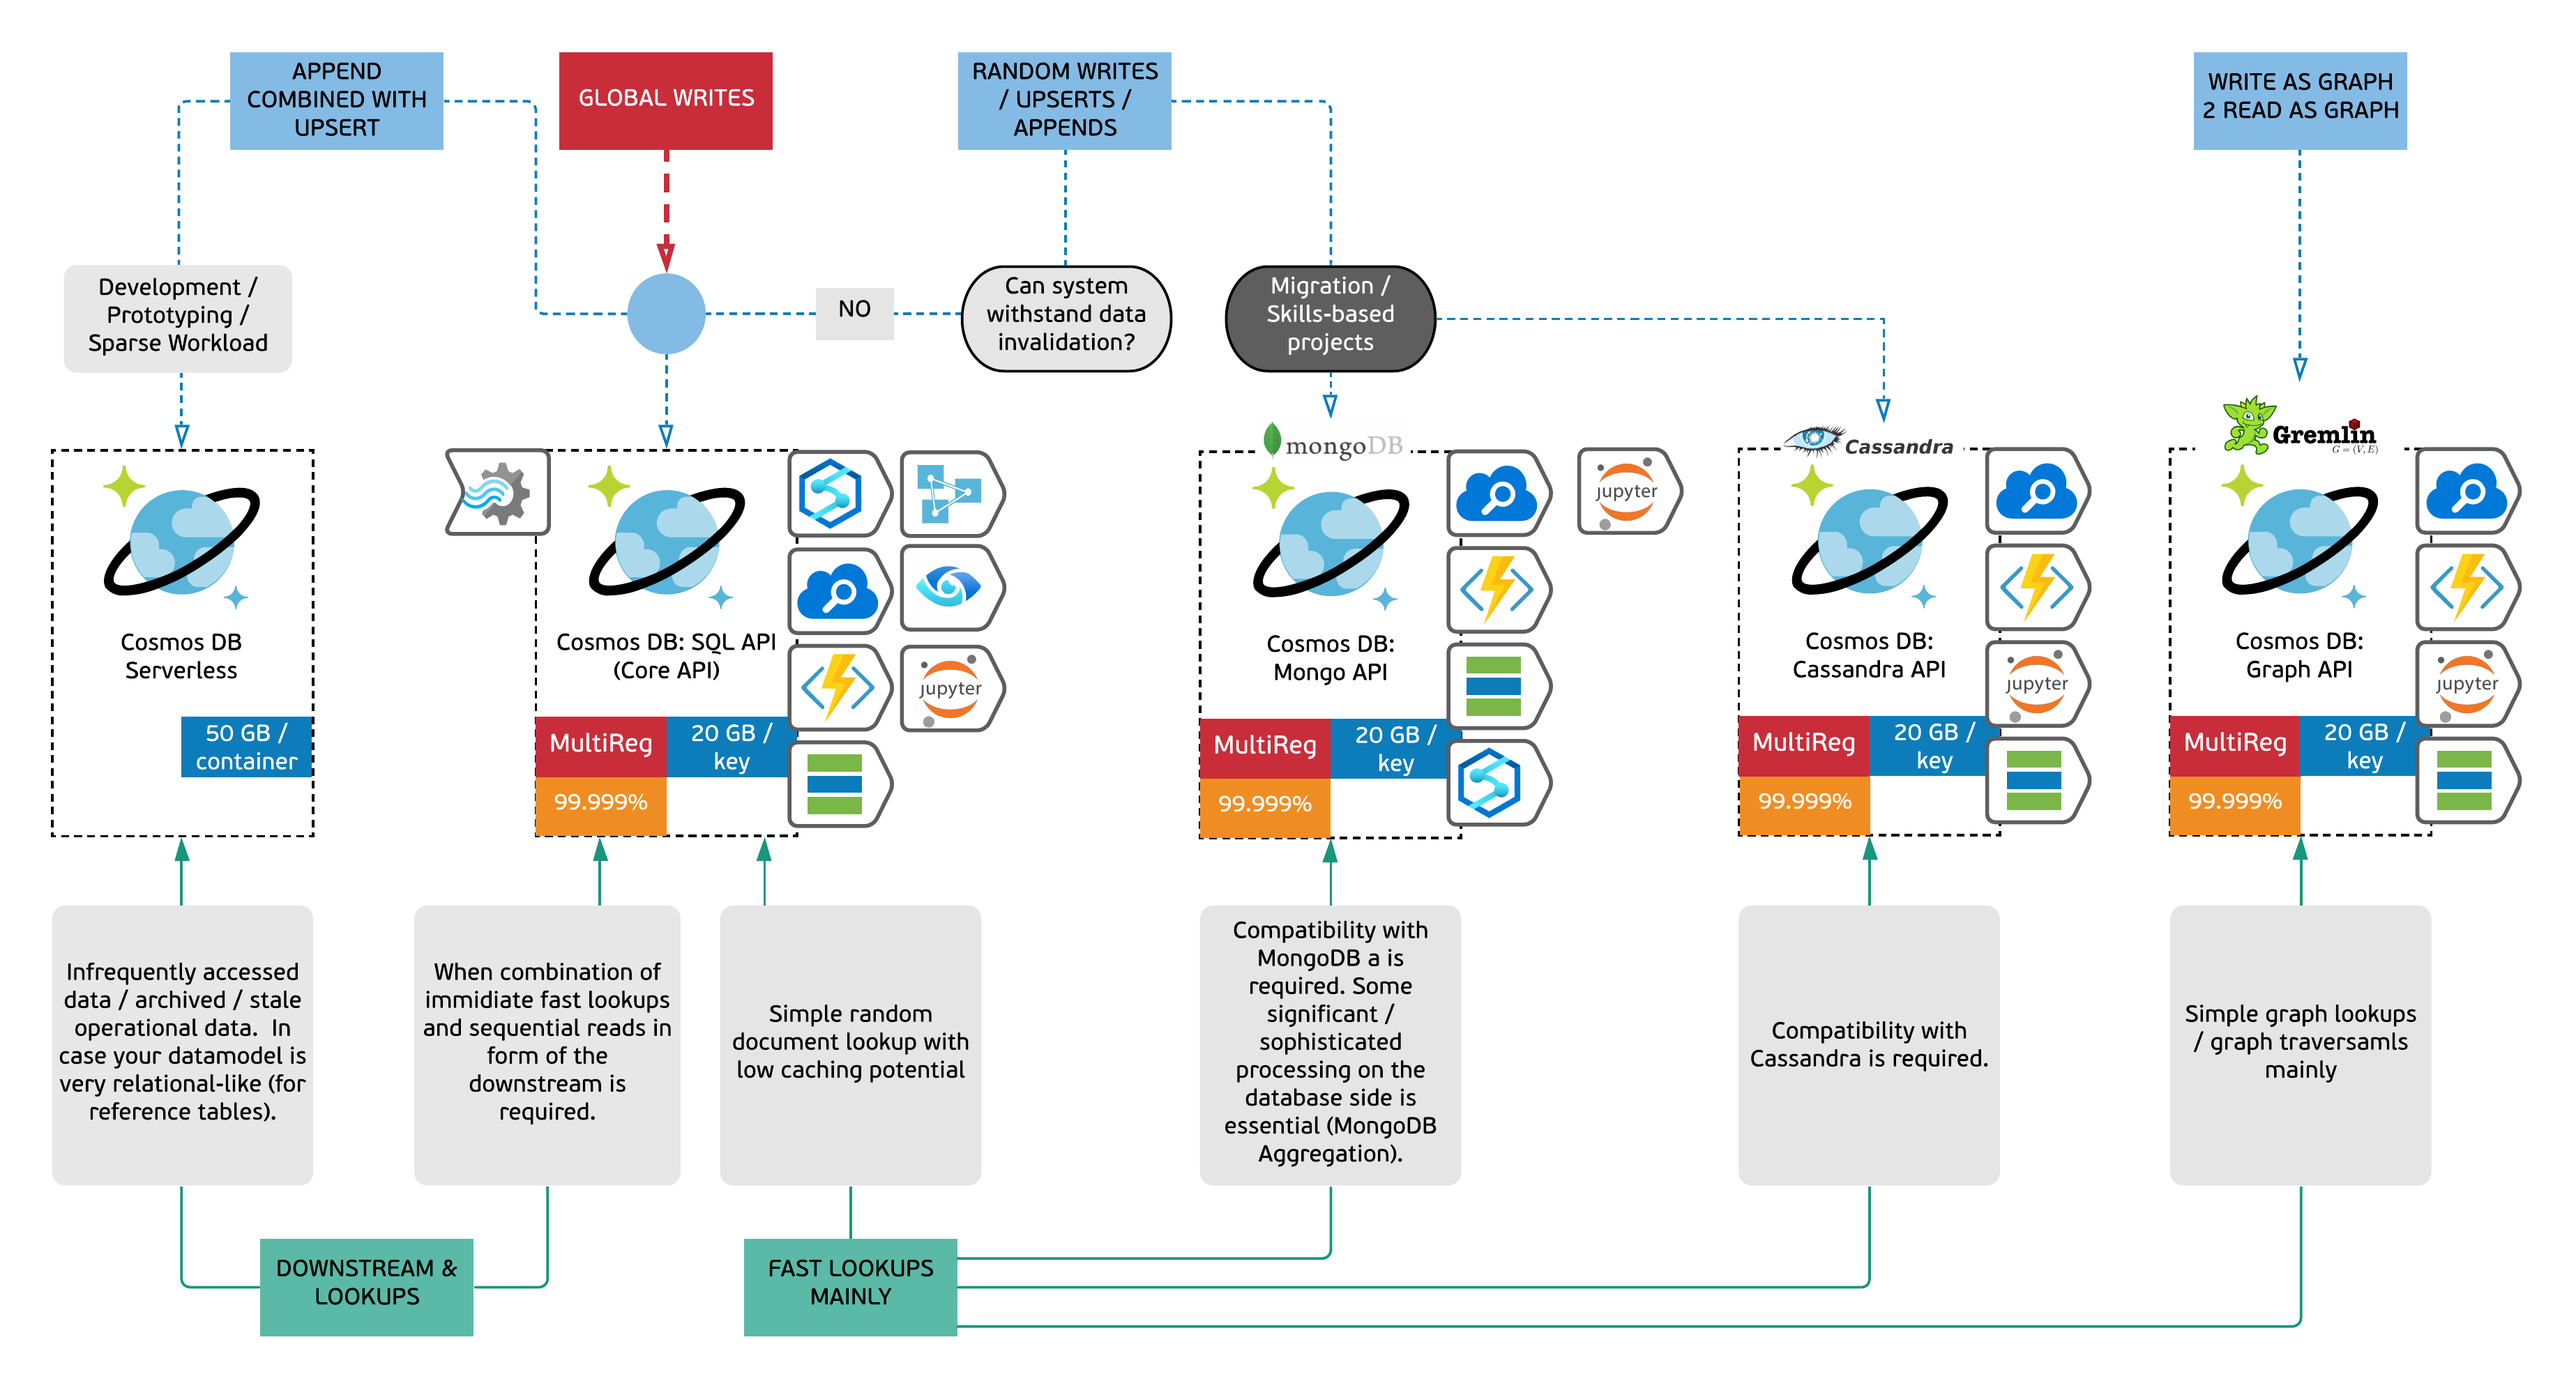
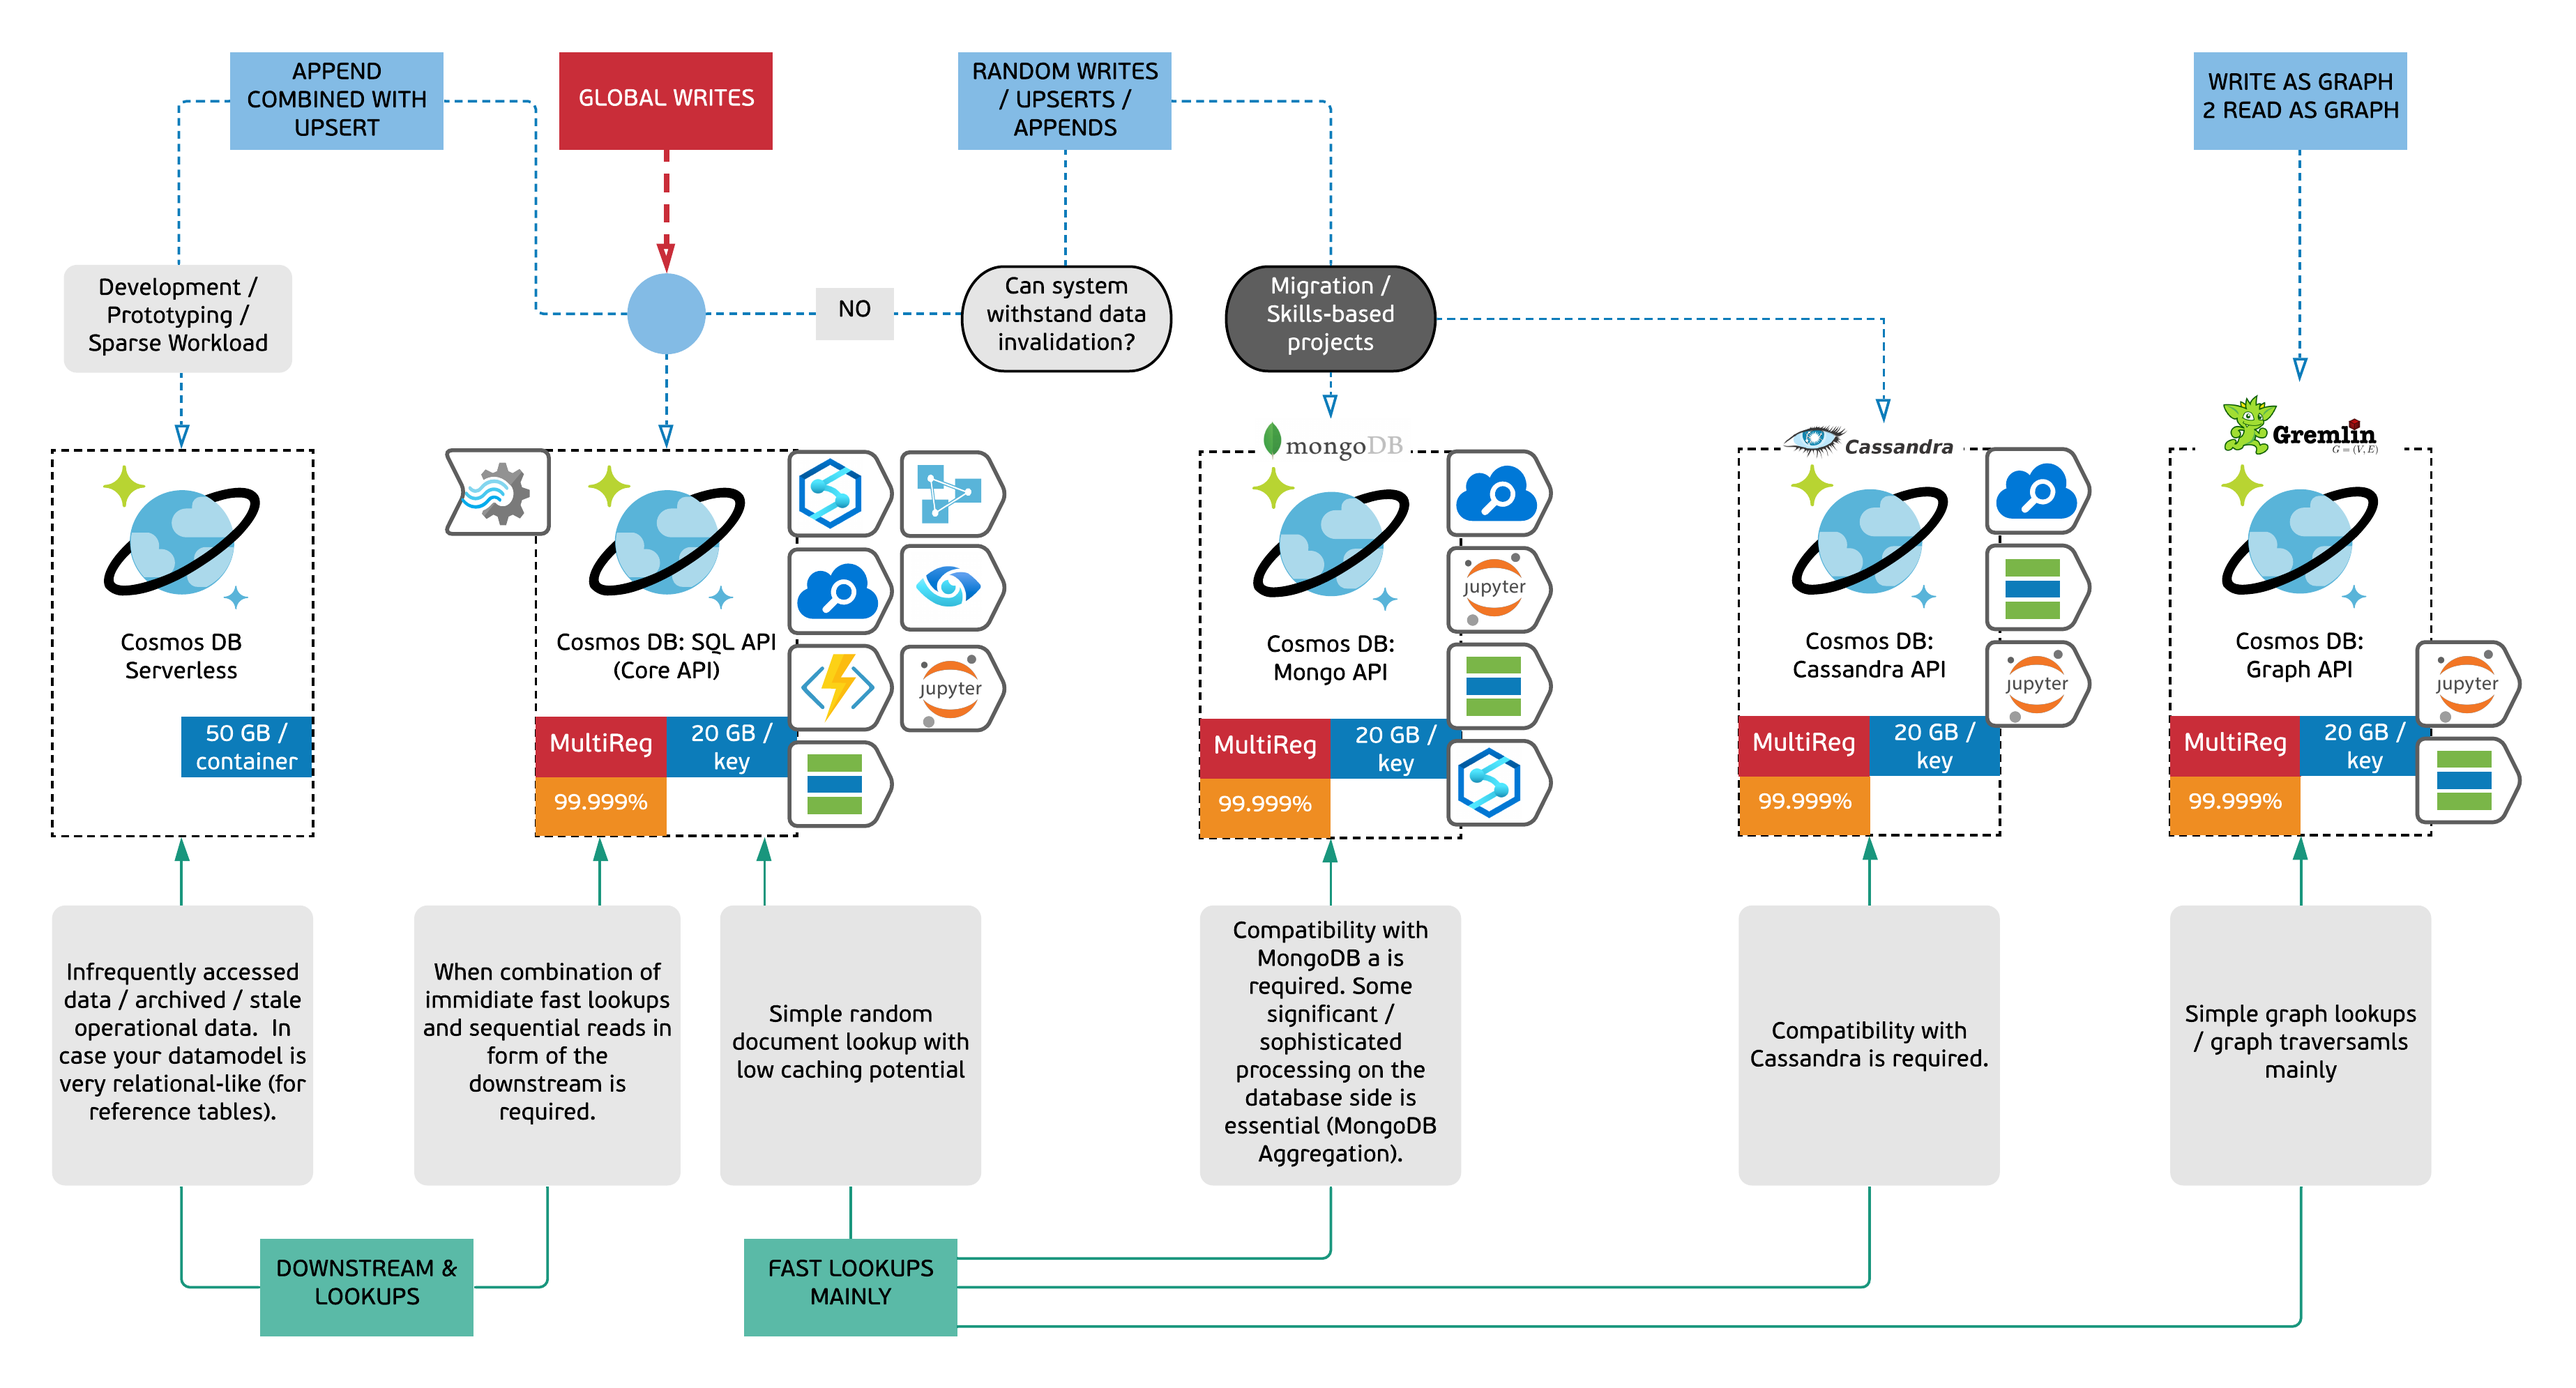
Proper links for Cosmos DB image map

diff --git a/html/cosmos.html b/html/cosmos.html
@@ -43,63 +43,61 @@
     <img src="/images/DTCosmosDB.png" alt="Albero Decision Tree Cosmos DB" usemap="#map" />
     <map name="map">
         <!--Azure Cosmos DB Gremlin API-->
-        <area shape="rect" coords="3111, 660, 3465, 1030" id="cosmosdbgremlinapi" alt="Azure Cosmos DB Gremlin API" href="" />
+        <area shape="rect" coords="3111, 660, 3465, 1030" id="cosmosdbgremlinapi" alt="Azure Cosmos DB Gremlin API" href="https://docs.microsoft.com/en-us/azure/cosmos-db/graph-introduction" />
         <!--Azure Cosmos DB Gremlin API Parameters-->
-        <area shape="rect" coords="3297, 1026, 3461, 1116" alt="Azure Cosmos DB Gremlin API Storage" href="" />
-        <area shape="rect" coords="3110, 1115, 3295, 1201" alt="Azure Cosmos DB Gremlin API SLA" href="" />
-        <area shape="rect" coords="3110, 1027, 3296, 1115" alt="Azure Cosmos DB Gremlin API High Availability" href="" />
+        <area shape="rect" coords="3297, 1026, 3461, 1116" alt="Azure Cosmos DB Gremlin API Storage" href="https://docs.microsoft.com/en-us/azure/cosmos-db/concepts-limits" />
+        <area shape="rect" coords="3110, 1115, 3295, 1201" alt="Azure Cosmos DB Gremlin API SLA" href="https://azure.microsoft.com/en-us/support/legal/sla/cosmos-db/v1_3/" />
+        <area shape="rect" coords="3110, 1027, 3296, 1115" alt="Azure Cosmos DB Gremlin API High Availability" href="https://docs.microsoft.com/en-us/azure/cosmos-db/high-availability" />
         <!--Azure Cosmos DB Gremlin API Integration-->
-        <area shape="rect" coords="3460, 1056, 3623, 1187" alt="Azure Cosmos DB Gremlin API Change Feed " href="" />
-        <area shape="rect" coords="3462, 916, 3622, 1049" alt="Azure Cosmos DB Gremlin API Jupiter" href="" />
-        <area shape="rect" coords="3462, 777, 3622, 909" alt="Azure Cosmos DB Gremlin API Functions" href="" />
-        <area shape="rect" coords="3463, 639, 3622, 770" alt="Azure Cosmos DB Gremlin API Search" href="" />
+        <area shape="rect" coords="3460, 1056, 3623, 1187" alt="Azure Cosmos DB Gremlin API Change Feed " href="https://docs.microsoft.com/en-us/azure/cosmos-db/change-feed" />
+        <area shape="rect" coords="3462, 916, 3622, 1049" alt="Azure Cosmos DB Gremlin API Jupiter" href="https://docs.microsoft.com/en-us/azure/cosmos-db/cosmosdb-jupyter-notebooks" />
         <!--Azure Cosmos DB Gremlin API Version-->
-        <area shape="rect" coords="3178, 567, 3409, 655" alt="Azure Cosmos DB Gremlin API Version" href="" />
+        <area shape="rect" coords="3178, 567, 3409, 655" alt="Azure Cosmos DB Gremlin API Version" href="https://docs.microsoft.com/en-us/azure/cosmos-db/gremlin-support" />
+        <!--Gremlin - no Search-->
+        <!--All - no Functions-->
 
         <!--Azure Cosmos DB Cassandra API-->
-        <area shape="rect" coords="2493, 660, 2844, 1028" id="cosmosdbcassandraapi" alt="Azure Cosmos DB Cassandra API" href="" />
+        <area shape="rect" coords="2493, 660, 2844, 1028" id="cosmosdbcassandraapi" alt="Azure Cosmos DB Cassandra API" href="https://docs.microsoft.com/en-us/azure/cosmos-db/cassandra-introduction" />
         <!--Azure Cosmos DB Cassandra API Parameters-->
-        <area shape="rect" coords="2684, 1028, 2847, 1116" alt="Azure Cosmos DB Cassandra API Storage" href="" />
-        <area shape="rect" coords="2493, 1116, 2681, 1199" alt="Azure Cosmos DB Cassandra API SLA" href="" />
-        <area shape="rect" coords="2496, 1028, 2682, 1116" alt="Azure Cosmos DB Cassandra API High-Availability" href="" />
+        <area shape="rect" coords="2684, 1028, 2847, 1116" alt="Azure Cosmos DB Cassandra API Storage" href="https://docs.microsoft.com/en-us/azure/cosmos-db/concepts-limits" />
+        <area shape="rect" coords="2493, 1116, 2681, 1199" alt="Azure Cosmos DB Cassandra API SLA" href="https://azure.microsoft.com/en-us/support/legal/sla/cosmos-db/v1_3/" />
+        <area shape="rect" coords="2496, 1028, 2682, 1116" alt="Azure Cosmos DB Cassandra API High-Availability" href="https://docs.microsoft.com/en-us/azure/cosmos-db/high-availability" />
         <!--Azure Cosmos DB Cassandra API Integration-->
-        <area shape="rect" coords="2845, 1057, 3004, 1187" alt="Azure Cosmos DB Cassandra API Change Feed" href="" />
-        <area shape="rect" coords="2843, 916, 3001, 1047" alt="Azure Cosmos DB Cassandra API Jupiter" href="" />
-        <area shape="rect" coords="2844, 779, 3002, 908" alt="Azure Cosmos DB Cassandra API Functions" href="" />
-        <area shape="rect" coords="2848, 639, 3001, 770" alt="Azure Cosmos DB Cassandra API Search" href="" />
+        <area shape="rect" coords="2844, 779, 3002, 908" alt="Azure Cosmos DB Cassandra API Change Feed" href="https://docs.microsoft.com/en-us/azure/cosmos-db/change-feed" />
+        <area shape="rect" coords="2843, 916, 3001, 1047" alt="Azure Cosmos DB Cassandra API Jupiter" href="https://docs.microsoft.com/en-us/azure/cosmos-db/cosmosdb-jupyter-notebooks" />
+        <area shape="rect" coords="2848, 639, 3001, 770" alt="Azure Cosmos DB Cassandra API Search" href="https://docs.microsoft.com/en-us/azure/search/search-howto-index-cosmosdb" />
         <!--Azure Cosmos DB Cassandra API Version-->
-        <area shape="rect" coords="2553, 604, 2817, 660" alt="Azure Cosmos DB Cassandra API Version" href="" />
+        <area shape="rect" coords="2553, 604, 2817, 660" alt="Azure Cosmos DB Cassandra API Version" href="https://docs.microsoft.com/en-us/azure/cosmos-db/cassandra-support" />
 
         <!--Azure Cosmos DB Mongo API-->
-        <area shape="rect" coords="1723, 660, 2074, 1028" id="cosmosdbmongoapi" alt="Azure Cosmos DB Mongo API" href="" />
+        <area shape="rect" coords="1723, 660, 2074, 1028" id="cosmosdbmongoapi" alt="Azure Cosmos DB Mongo API" href="https://docs.microsoft.com/en-us/azure/cosmos-db/mongodb-introduction" />
         <!--Azure Cosmos DB Mongo API Parameters-->
-        <area shape="rect" coords="1910, 1031, 2079, 1119" alt="Azure Cosmos DB Mongo API Storage" href="" />
-        <area shape="rect" coords="1720, 1122, 1910, 1203" alt="Azure Cosmos DB Mongo API SLA" href="" />
-        <area shape="rect" coords="1721, 1030, 1910, 1119" alt="Azure Cosmos DB Mongo API High Availability" href="" />
+        <area shape="rect" coords="1910, 1031, 2079, 1119" alt="Azure Cosmos DB Mongo API Storage" href="https://docs.microsoft.com/en-us/azure/cosmos-db/concepts-limits" />
+        <area shape="rect" coords="1720, 1122, 1910, 1203" alt="Azure Cosmos DB Mongo API SLA" href="https://azure.microsoft.com/en-us/support/legal/sla/cosmos-db/v1_3/" />
+        <area shape="rect" coords="1721, 1030, 1910, 1119" alt="Azure Cosmos DB Mongo API High Availability" href="https://docs.microsoft.com/en-us/azure/cosmos-db/high-availability" />
         <!--Azure Cosmos DB Mongo API Integration-->
-        <area shape="rect" coords="2255, 639, 2420, 774" alt="Azure Cosmos DB Mongo API Out Jupiter" href="" />
-        <area shape="rect" coords="2072, 1059, 2233, 1189" alt="Azure Cosmos DB Mongo API Out Synapse" href="" />
-        <area shape="rect" coords="2074, 924, 2231, 1050" alt="Azure Cosmos DB Mongo API Out Change Feed" href="" />
-        <area shape="rect" coords="2074, 779, 2229, 914" alt="Azure Cosmos DB Mongo API Out Functions" href="" />
-        <area shape="rect" coords="2076, 643, 2229, 773" alt="Azure Cosmos DB Mongo API Out Search" href="" />
+        <area shape="rect" coords="2074, 779, 2229, 914" alt="Azure Cosmos DB Mongo API Out Jupiter" href="https://docs.microsoft.com/en-us/azure/cosmos-db/cosmosdb-jupyter-notebooks" />
+        <area shape="rect" coords="2072, 1059, 2233, 1189" alt="Azure Cosmos DB Mongo API Out Synapse" href="https://docs.microsoft.com/en-us/azure/cosmos-db/synapse-link" />
+        <area shape="rect" coords="2074, 924, 2231, 1050" alt="Azure Cosmos DB Mongo API Out Change Feed" href="https://docs.microsoft.com/en-us/azure/cosmos-db/change-feed" />
+        <area shape="rect" coords="2076, 643, 2229, 773" alt="Azure Cosmos DB Mongo API Out Search" href="https://docs.microsoft.com/en-us/azure/search/search-howto-index-cosmosdb" />
         <!--Azure Cosmos DB Mongo API Version Support-->
-        <area shape="rect" coords="1804, 595, 2021, 667" alt="Azure Cosmos DB Mongo API Version Support" href="" />
+        <area shape="rect" coords="1804, 595, 2021, 667" alt="Azure Cosmos DB Mongo API Version Support" href="https://docs.microsoft.com/en-us/azure/cosmos-db/mongodb-feature-support-36" />
 
         <!--Azure Cosmos DB SQL API-->
-        <area shape="rect" coords="788, 650, 1125, 1026" id="cosmosdbsqlapi" alt="Azure Cosmos DB SQL API" href="" />
+        <area shape="rect" coords="788, 650, 1125, 1026" id="cosmosdbsqlapi" alt="Azure Cosmos DB SQL API" href="https://docs.microsoft.com/en-us/azure/cosmos-db/" />
         <!--Azure Cosmos DB SQL API Parameters-->
-        <area shape="rect" coords="956, 1026, 1130, 1115" alt="Azure Cosmos DB SQL API Storage" href="" />
-        <area shape="rect" coords="764, 1114, 956, 1201" alt="Azure Cosmos DB SQL API SLA" href="" />
-        <area shape="rect" coords="766, 1026, 956, 1114" alt="Azure Cosmos DB SQL API High Availability" href="" />
+        <area shape="rect" coords="956, 1026, 1130, 1115" alt="Azure Cosmos DB SQL API Storage" href="https://docs.microsoft.com/en-us/azure/cosmos-db/concepts-limits" />
+        <area shape="rect" coords="764, 1114, 956, 1201" alt="Azure Cosmos DB SQL API SLA" href="https://azure.microsoft.com/en-us/support/legal/sla/cosmos-db/v1_3/" />
+        <area shape="rect" coords="766, 1026, 956, 1114" alt="Azure Cosmos DB SQL API High Availability" href="https://docs.microsoft.com/en-us/azure/cosmos-db/high-availability" />
         <!--Azure Cosmos DB SQL API Integration-->
-        <area shape="rect" coords="1286, 921, 1446, 1057" alt="Cosmos DB SQL API Integration Out Jupiter" href="" />
-        <area shape="rect" coords="1286, 782, 1441, 922" alt="Cosmos DB SQL API Integration Out Purview" href="" />
-        <area shape="rect" coords="1289, 641, 1447, 779" alt="Cosmos DB SQL API Integration Out Analysis Services" href="" />
-        <area shape="rect" coords="1127, 1062, 1291, 1194" alt="Cosmos DB SQL API Integration Out Change Feed" href="" />
-        <area shape="rect" coords="1127, 920, 1289, 1051" alt="Cosmos DB SQL API Integration Out Functions" href="" />
-        <area shape="rect" coords="1127, 782, 1288, 911" alt="Cosmos DB SQL API Integration Out Search" href="" />
-        <area shape="rect" coords="1129, 644, 1286, 774" alt="Cosmos DB SQL API Integration Out Synapse" href="" />
-        <area shape="rect" coords="636, 640, 793, 769" alt="Cosmos DB SQL API Integration In Stream Analytics" href="" />
+        <area shape="rect" coords="1286, 921, 1446, 1057" alt="Cosmos DB SQL API Integration Out Jupiter" href="https://docs.microsoft.com/en-us/azure/cosmos-db/cosmosdb-jupyter-notebooks" />
+        <area shape="rect" coords="1286, 782, 1441, 922" alt="Cosmos DB SQL API Integration Out Purview" href="https://docs.microsoft.com/en-us/azure/purview/register-scan-azure-cosmos-database" />
+        <area shape="rect" coords="1289, 641, 1447, 779" alt="Cosmos DB SQL API Integration Out Analysis Services" href="https://docs.microsoft.com/en-us/azure/analysis-services/analysis-services-datasource" />
+        <area shape="rect" coords="1127, 1062, 1291, 1194" alt="Cosmos DB SQL API Integration Out Change Feed" href="https://docs.microsoft.com/en-us/azure/cosmos-db/change-feed" />
+        <area shape="rect" coords="1127, 920, 1289, 1051" alt="Cosmos DB SQL API Integration Out Functions" href="https://docs.microsoft.com/en-us/azure/cosmos-db/serverless-computing-database" />
+        <area shape="rect" coords="1127, 782, 1288, 911" alt="Cosmos DB SQL API Integration Out Search" href="https://docs.microsoft.com/en-us/azure/search/search-howto-index-cosmosdb" />
+        <area shape="rect" coords="1129, 644, 1286, 774" alt="Cosmos DB SQL API Integration Out Synapse" href="https://docs.microsoft.com/en-us/azure/cosmos-db/synapse-link" />
+        <area shape="rect" coords="636, 640, 793, 769" alt="Cosmos DB SQL API Integration In Stream Analytics" href="https://docs.microsoft.com/en-us/azure/stream-analytics/stream-analytics-documentdb-output" />
 
         <!--Azure Cosmos DB Serverless-->
         <area shape="rect" coords="75, 643, 450, 1027" id="cosmosdbserverless" alt="Azure Cosmos DB Serverless" href="https://devblogs.microsoft.com/cosmosdb/serverless-preview/" />
